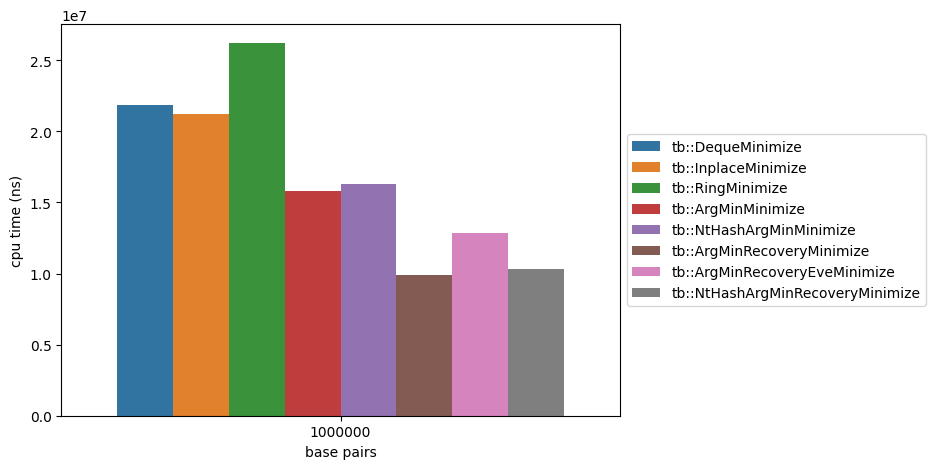
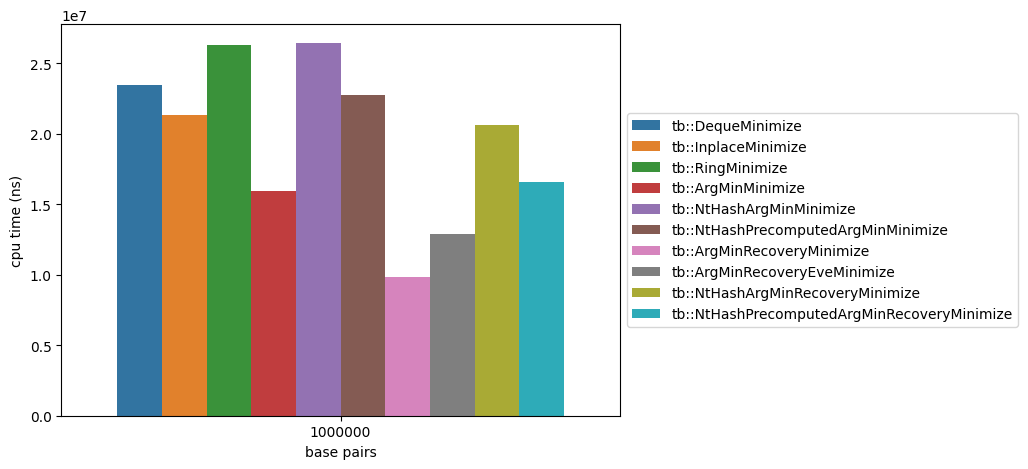
nthash: precomputed nthash

diff --git a/include/tb/nthash.hpp b/include/tb/nthash.hpp
@@ -8,10 +8,10 @@
 namespace tb {
 
 // 64-bit random seeds corresponding to bases and their complements
-const std::uint64_t kSeedA = 0x3c8b'fbb3'95c6'0470;
-const std::uint64_t kSeedC = 0x3193'c185'62a0'2b4c;
-const std::uint64_t kSeedG = 0x2032'3ed0'8257'2324;
-const std::uint64_t kSeedT = 0x2d2a'04e6'7531'0c18;
+inline constexpr std::uint64_t kSeedA = 0x3c8b'fbb3'95c6'0470;
+inline constexpr std::uint64_t kSeedC = 0x3193'c185'62a0'2b4c;
+inline constexpr std::uint64_t kSeedG = 0x2032'3ed0'8257'2324;
+inline constexpr std::uint64_t kSeedT = 0x2d2a'04e6'7531'0c18;
 
 inline constexpr std::array<std::uint64_t, 4> kNtHashSeeds = {
     kSeedA,
@@ -20,18 +20,21 @@ inline constexpr std::array<std::uint64_t, 4> kNtHashSeeds = {
     kSeedT,
 };
 
-constexpr auto srol = []<class... Args> [[using gnu: always_inline, const]] (
-                          Args&&... args) -> KMer::value_type {
-  auto single_impl = [](std::uint64_t x) noexcept {
-    /* clang-format off */
+inline constexpr auto srol =
+    []<class... Args> [[using gnu: always_inline, const]] (
+        Args&&... args) -> KMer::value_type {
+  auto single_impl =
+      [] [[using gnu: always_inline, const]] (std::uint64_t x) noexcept {
+        /* clang-format off */
     uint64_t m = ((x & 0x8000000000000000ULL) >> 30) |
                  ((x & 0x100000000ULL) >> 32);
-    /* clang-format on */
-    return ((x << 1) & 0xFFFFFFFDFFFFFFFFULL) | m;
-  };
+        /* clang-format on */
+        return ((x << 1) & 0xFFFFFFFDFFFFFFFFULL) | m;
+      };
 
-  auto multi_impl = [] [[using gnu: always_inline]] (
-                        KMer::value_type x, KMer::value_type n_rotations) {
+  auto multi_impl = [] [[using gnu: always_inline, const]] (
+                        KMer::value_type x,
+                        KMer::value_type n_rotations) noexcept {
     if (n_rotations == 0) {
       return x;
     }
@@ -50,11 +53,35 @@ constexpr auto srol = []<class... Args> [[using gnu: always_inline, const]] (
   }
 };
 
-constexpr auto nthash = [] [[using gnu: const, hot]]
-                        (KMer::value_type prev, std::uint8_t base_out,
-                         std::uint8_t base_in, std::uint64_t k) {
-                          return srol(prev) ^ srol(kNtHashSeeds[base_out], k) ^
-                                 kNtHashSeeds[base_in];
-                        };
+namespace detail {
+
+inline constexpr auto kPrecomputed = [] {
+  std::array<std::array<std::uint64_t, 4>, 32> dst;
+  for (std::size_t i = 0; i < 32; ++i) {
+    for (std::size_t j = 0; j < kNtHashSeeds.size(); ++j) {
+      dst[i][j] = srol(kNtHashSeeds[j], i);
+    }
+  }
+
+  return dst;
+}();
+
+}  // namespace detail
+
+template <bool Precomputed = true>
+inline constexpr auto nthash =
+    [] [[using gnu: always_inline, pure, hot]]
+    (KMer::value_type prev, std::uint8_t base_out, std::uint8_t base_in,
+     std::uint64_t k) {
+      constexpr auto srol_out = [](std::uint8_t base_out, std::uint64_t k) {
+        if constexpr (Precomputed) {
+          return detail::kPrecomputed[k][base_out];
+        } else {
+          return srol(kNtHashSeeds[base_out], k);
+        }
+      };
+
+      return srol(prev, 1) ^ srol_out(base_out, k) ^ kNtHashSeeds[base_in];
+    };
 
 }  // namespace tb

diff --git a/src/algo.cc b/src/algo.cc
@@ -242,6 +242,7 @@ struct ThomasWangHasher {
   }
 };
 
+template <bool Precomputed = true>
 struct NthHasher {
   std::vector<KMer::value_type> operator()(MinimizeArgs args) const {
     if (args.seq.size() < args.window_length + args.kmer_length - 2) {
@@ -256,8 +257,8 @@ struct NthHasher {
 
     std::vector<KMer::value_type> hashes{value};
     for (std::size_t i = args.kmer_length; i < args.seq.size(); ++i) {
-      value = nthash(value, args.seq.Code(i - (args.kmer_length - 1)),
-                     args.seq.Code(i), args.kmer_length);
+      value = nthash<Precomputed>(value, args.seq.Code(i - args.kmer_length),
+                                  args.seq.Code(i), args.kmer_length);
       hashes.push_back(value);
     }
 
@@ -349,13 +350,17 @@ struct ArgMinEveRecoverySampler {
 };
 
 using ArgMinMixin = ArgMinMixinBase<ThomasWangHasher, ArgMinSampler>;
-using NtHashArgMinMixin = ArgMinMixinBase<NthHasher, ArgMinSampler>;
+using NtHashArgMinMixin = ArgMinMixinBase<NthHasher<false>, ArgMinSampler>;
+using NtHashPrecomputedArgMinMixin =
+    ArgMinMixinBase<NthHasher<true>, ArgMinSampler>;
 using ArgMinRecoveryMixin =
     ArgMinMixinBase<ThomasWangHasher, ArgMinRecoverySampler>;
 using ArgMinEverRecoveryMixin =
     ArgMinMixinBase<ThomasWangHasher, ArgMinEveRecoverySampler>;
 using NtHashArgMinRecoveryMixin =
-    ArgMinMixinBase<NthHasher, ArgMinRecoverySampler>;
+    ArgMinMixinBase<NthHasher<false>, ArgMinRecoverySampler>;
+using NtHashPrecomputedArgMinRecoveryMixin =
+    ArgMinMixinBase<NthHasher<true>, ArgMinRecoverySampler>;
 
 }  // namespace
 
@@ -365,6 +370,10 @@ std::vector<KMer> ArgMinMinimize(MinimizeArgs args) {
 
 std::vector<KMer> NtHashArgMinMinimize(MinimizeArgs args) {
   return NtHashArgMinMixin{}(args);
+}
+
+std::vector<KMer> NtHashPrecomputedArgMinMinimize(MinimizeArgs args) {
+  return NtHashPrecomputedArgMinMixin{}(args);
 }
 
 std::vector<KMer> ArgMinRecoveryMinimize(MinimizeArgs args) {
@@ -377,6 +386,10 @@ std::vector<KMer> ArgMinRecoveryEveMinimize(MinimizeArgs args) {
 
 std::vector<KMer> NtHashArgMinRecoveryMinimize(MinimizeArgs args) {
   return NtHashArgMinRecoveryMixin{}(args);
+}
+
+std::vector<KMer> NtHashPrecomputedArgMinRecoveryMinimize(MinimizeArgs args) {
+  return NtHashPrecomputedArgMinRecoveryMixin{}(args);
 }
 
 }  // namespace tb

diff --git a/src/test.cc b/src/test.cc
@@ -71,9 +71,23 @@ TEST_F(MinimizeTest, ArgMinRecoveryEveVsNaive) {
   EXPECT_EQ(naive_minimizers, argmin_minimizers);
 }
 
+TEST_F(MinimizeTest, NtHashPrecomputedArgMinVsNtHashArgMin) {
+  auto minimizers = tb::NtHashArgMinMinimize(args_);
+  auto precomputed_minimizers = tb::NtHashPrecomputedArgMinMinimize(args_);
+
+  EXPECT_EQ(minimizers, precomputed_minimizers);
+}
+
 TEST_F(MinimizeTest, NtHashArgMinRecoveryVsNtHashArgMin) {
   auto argmin_minimizers = tb::NtHashArgMinMinimize(args_);
   auto recovery_minimizers = tb::NtHashArgMinRecoveryMinimize(args_);
+
+  EXPECT_EQ(argmin_minimizers, recovery_minimizers);
+}
+
+TEST_F(MinimizeTest, NtHashPrecomputedArgMinRecoveryVsNtHashArgMin) {
+  auto argmin_minimizers = tb::NtHashArgMinMinimize(args_);
+  auto recovery_minimizers = tb::NtHashPrecomputedArgMinRecoveryMinimize(args_);
 
   EXPECT_EQ(argmin_minimizers, recovery_minimizers);
 }

diff --git a/src/bench.cc b/src/bench.cc
@@ -34,11 +34,15 @@ BENCHMARK_TEMPLATE(BM_Minimize, tb::RingMinimize)->ArgsProduct(kArgList);
 BENCHMARK_TEMPLATE(BM_Minimize, tb::ArgMinMinimize)->ArgsProduct(kArgList);
 BENCHMARK_TEMPLATE(BM_Minimize, tb::NtHashArgMinMinimize)
     ->ArgsProduct(kArgList);
+BENCHMARK_TEMPLATE(BM_Minimize, tb::NtHashPrecomputedArgMinMinimize)
+    ->ArgsProduct(kArgList);
 BENCHMARK_TEMPLATE(BM_Minimize, tb::ArgMinRecoveryMinimize)
     ->ArgsProduct(kArgList);
 BENCHMARK_TEMPLATE(BM_Minimize, tb::ArgMinRecoveryEveMinimize)
     ->ArgsProduct(kArgList);
 BENCHMARK_TEMPLATE(BM_Minimize, tb::NtHashArgMinRecoveryMinimize)
+    ->ArgsProduct(kArgList);
+BENCHMARK_TEMPLATE(BM_Minimize, tb::NtHashPrecomputedArgMinRecoveryMinimize)
     ->ArgsProduct(kArgList);
 
 }  // namespace

diff --git a/include/tb/algo.hpp b/include/tb/algo.hpp
@@ -16,8 +16,10 @@ std::vector<KMer> InplaceMinimize(MinimizeArgs);
 std::vector<KMer> RingMinimize(MinimizeArgs);
 std::vector<KMer> ArgMinMinimize(MinimizeArgs);
 std::vector<KMer> NtHashArgMinMinimize(MinimizeArgs);
+std::vector<KMer> NtHashPrecomputedArgMinMinimize(MinimizeArgs);
 std::vector<KMer> ArgMinRecoveryMinimize(MinimizeArgs);
 std::vector<KMer> ArgMinRecoveryEveMinimize(MinimizeArgs);
 std::vector<KMer> NtHashArgMinRecoveryMinimize(MinimizeArgs);
+std::vector<KMer> NtHashPrecomputedArgMinRecoveryMinimize(MinimizeArgs);
 
 }  // namespace tb

diff --git a/src/nthash.cc b/src/nthash.cc
@@ -1,0 +1,1 @@
+#include "tb/nthash.hpp"

diff --git a/README.md b/README.md
@@ -36,17 +36,19 @@ cmake --build build
 - kmer length = 21
 
 ### Figures
-| function                         |   avg ns per bp |
-|:---------------------------------|----------------:|
-| tb::NaiveMinimize                |       242.506   |
-| tb::RingMinimize                 |        26.2161  |
-| tb::DequeMinimize                |        21.8286  |
-| tb::InplaceMinimize              |        21.2374  |
-| tb::NtHashArgMinMinimize         |        16.3198  |
-| tb::ArgMinMinimize               |        15.825   |
-| tb::ArgMinRecoveryEveMinimize    |        12.8743  |
-| tb::NtHashArgMinRecoveryMinimize |        10.3206  |
-| tb::ArgMinRecoveryMinimize       |         9.87923 |
+| function                                    |   avg ns per bp |
+|:--------------------------------------------|----------------:|
+| tb::NaiveMinimize                           |       241.547   |
+| tb::NtHashArgMinMinimize                    |        26.454   |
+| tb::RingMinimize                            |        26.2809  |
+| tb::DequeMinimize                           |        23.495   |
+| tb::NtHashPrecomputedArgMinMinimize         |        22.7503  |
+| tb::InplaceMinimize                         |        21.313   |
+| tb::NtHashArgMinRecoveryMinimize            |        20.6429  |
+| tb::NtHashPrecomputedArgMinRecoveryMinimize |        16.5655  |
+| tb::ArgMinMinimize                          |        15.9429  |
+| tb::ArgMinRecoveryEveMinimize               |        12.8927  |
+| tb::ArgMinRecoveryMinimize                  |         9.81566 |
 ![](misc/perf.png)
 
 ## Reference
